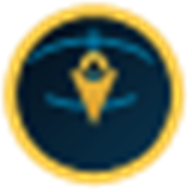
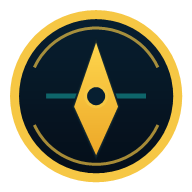
Add files via upload

diff --git a/styles.css b/styles.css
@@ -256,6 +256,45 @@ h1 {
   pointer-events: none;
 }
 
+.center-target {
+  position: absolute;
+  left: 50%;
+  top: 50%;
+  z-index: 510;
+  width: 34px;
+  height: 46px;
+  display: none;
+  transform: translate(-50%, -100%);
+  pointer-events: none;
+  filter: drop-shadow(0 5px 8px rgba(0, 0, 0, 0.65));
+}
+
+.center-target::before {
+  content: "";
+  position: absolute;
+  left: 50%;
+  top: 2px;
+  width: 28px;
+  height: 28px;
+  border: 3px solid var(--gold);
+  border-radius: 50% 50% 50% 6px;
+  background: linear-gradient(145deg, #06101a 0%, #0d2a3d 58%, #18ae7e 100%);
+  transform: translateX(-50%) rotate(-45deg);
+}
+
+.center-target::after {
+  content: "";
+  position: absolute;
+  left: 50%;
+  top: 13px;
+  width: 8px;
+  height: 8px;
+  border-radius: 50%;
+  background: var(--gold);
+  box-shadow: 0 0 0 3px rgba(246, 199, 68, 0.18);
+  transform: translateX(-50%);
+}
+
 .drop-zone {
   position: absolute;
   inset: 74px 34px 34px;
@@ -418,8 +457,8 @@ pre {
 
   .topbar {
     min-height: 0;
-    gap: 14px;
-    padding: 15px;
+    gap: 15px;
+    padding: 16px;
   }
 
   .brand {
@@ -427,17 +466,17 @@ pre {
   }
 
   .brand-mark {
-    width: 54px;
-    height: 54px;
+    width: 58px;
+    height: 58px;
   }
 
   .brand-mark img {
-    width: 54px;
-    height: 54px;
+    width: 58px;
+    height: 58px;
   }
 
   h1 {
-    font-size: 25px;
+    font-size: 26px;
   }
 
   .brand p {
@@ -455,7 +494,7 @@ pre {
   .button {
     min-width: 0;
     width: 100%;
-    height: 42px;
+    height: 44px;
     padding: 0 8px;
     font-size: 13px;
     white-space: nowrap;
@@ -468,6 +507,20 @@ pre {
 
   .panel-title {
     font-size: 16px;
+  }
+
+  .center-target {
+    width: 30px;
+    height: 42px;
+    top: calc(50% + 15px);
+    display: block;
+  }
+
+  #coordHud {
+    left: 20px;
+    right: 20px;
+    bottom: 20px;
+    text-align: center;
   }
 
   .stats {

diff --git a/app.js b/app.js
@@ -6,6 +6,8 @@ const coordRows = document.getElementById("coordRows");
 const details = document.getElementById("details");
 const dropZone = document.getElementById("dropZone");
 const coordHud = document.getElementById("coordHud");
+const centerTarget = document.getElementById("centerTarget");
+const centerTargetMode = window.matchMedia("(pointer: coarse), (max-width: 900px)");
 
 const stats = {
   objects: document.getElementById("statObjects"),
@@ -51,9 +53,14 @@ L.control.layers(
 ).addTo(map);
 
 map.on("mousemove", (event) => {
+  if (usesCenterTarget()) return;
   lastMouseLatLng = event.latlng;
   updateCoordinateHud(event.latlng);
 });
+
+map.on("move zoom moveend zoomend", updateCenterCoordinateHud);
+centerTargetMode.addEventListener?.("change", updateCenterCoordinateHud);
+setTimeout(updateCenterCoordinateHud, 250);
 
 fileInput.addEventListener("change", async () => {
   if (fileInput.files?.[0]) {
@@ -301,6 +308,20 @@ function findNearestElevation(latlng) {
   }
 
   return best && bestDistance <= limitMeters ? formatNumber(best.z) : "-";
+}
+
+function usesCenterTarget() {
+  return centerTargetMode.matches;
+}
+
+function updateCenterCoordinateHud() {
+  if (centerTarget) {
+    centerTarget.hidden = !usesCenterTarget();
+  }
+
+  if (!usesCenterTarget()) return;
+  lastMouseLatLng = map.getCenter();
+  updateCoordinateHud(lastMouseLatLng);
 }
 
 function updateCoordinateHud(latlng) {

diff --git a/index.html b/index.html
@@ -5,21 +5,21 @@
   <meta name="viewport" content="width=device-width, initial-scale=1">
   <meta name="theme-color" content="#07111d">
   <title>SC23 Harita Earth</title>
-  <link rel="icon" href="app-icon.ico">
-  <link rel="icon" type="image/png" sizes="192x192" href="icon-192.png">
-  <link rel="apple-touch-icon" sizes="180x180" href="apple-touch-icon.png">
-  <link rel="manifest" href="site.webmanifest">
+  <link rel="icon" href="app-icon.ico?v=7">
+  <link rel="icon" type="image/png" sizes="192x192" href="icon-192.png?v=7">
+  <link rel="apple-touch-icon" sizes="180x180" href="apple-touch-icon.png?v=7">
+  <link rel="manifest" href="site.webmanifest?v=7">
   <link rel="preconnect" href="https://unpkg.com">
   <link rel="preconnect" href="https://server.arcgisonline.com">
   <link rel="stylesheet" href="https://unpkg.com/leaflet@1.9.4/dist/leaflet.css">
-  <link rel="stylesheet" href="styles.css">
+  <link rel="stylesheet" href="styles.css?v=7">
 </head>
 <body>
   <main class="app-shell">
     <header class="topbar">
       <div class="brand">
         <div class="brand-mark" aria-label="SC23 Harita Earth logosu">
-          <img src="app-icon.ico" alt="">
+          <img src="icon-192.png" alt="">
         </div>
         <div>
           <h1>SC23 Harita Earth</h1>
@@ -42,6 +42,7 @@
           <span id="fileName" class="muted">Dosya bekleniyor</span>
         </div>
         <div id="map"></div>
+        <div id="centerTarget" class="center-target" aria-hidden="true"></div>
         <div id="coordHud">Enlem: - | Boylam: - | Z: -</div>
         <div id="dropZone" class="drop-zone">
           <strong>KML / KMZ dosyanizi buraya birakin</strong>
@@ -86,6 +87,6 @@
   <script src="https://unpkg.com/leaflet@1.9.4/dist/leaflet.js"></script>
   <script src="https://unpkg.com/jszip@3.10.1/dist/jszip.min.js"></script>
   <script src="https://unpkg.com/@tmcw/togeojson@5.8.1/dist/togeojson.umd.js"></script>
-  <script src="app.js"></script>
+  <script src="app.js?v=7"></script>
 </body>
 </html>